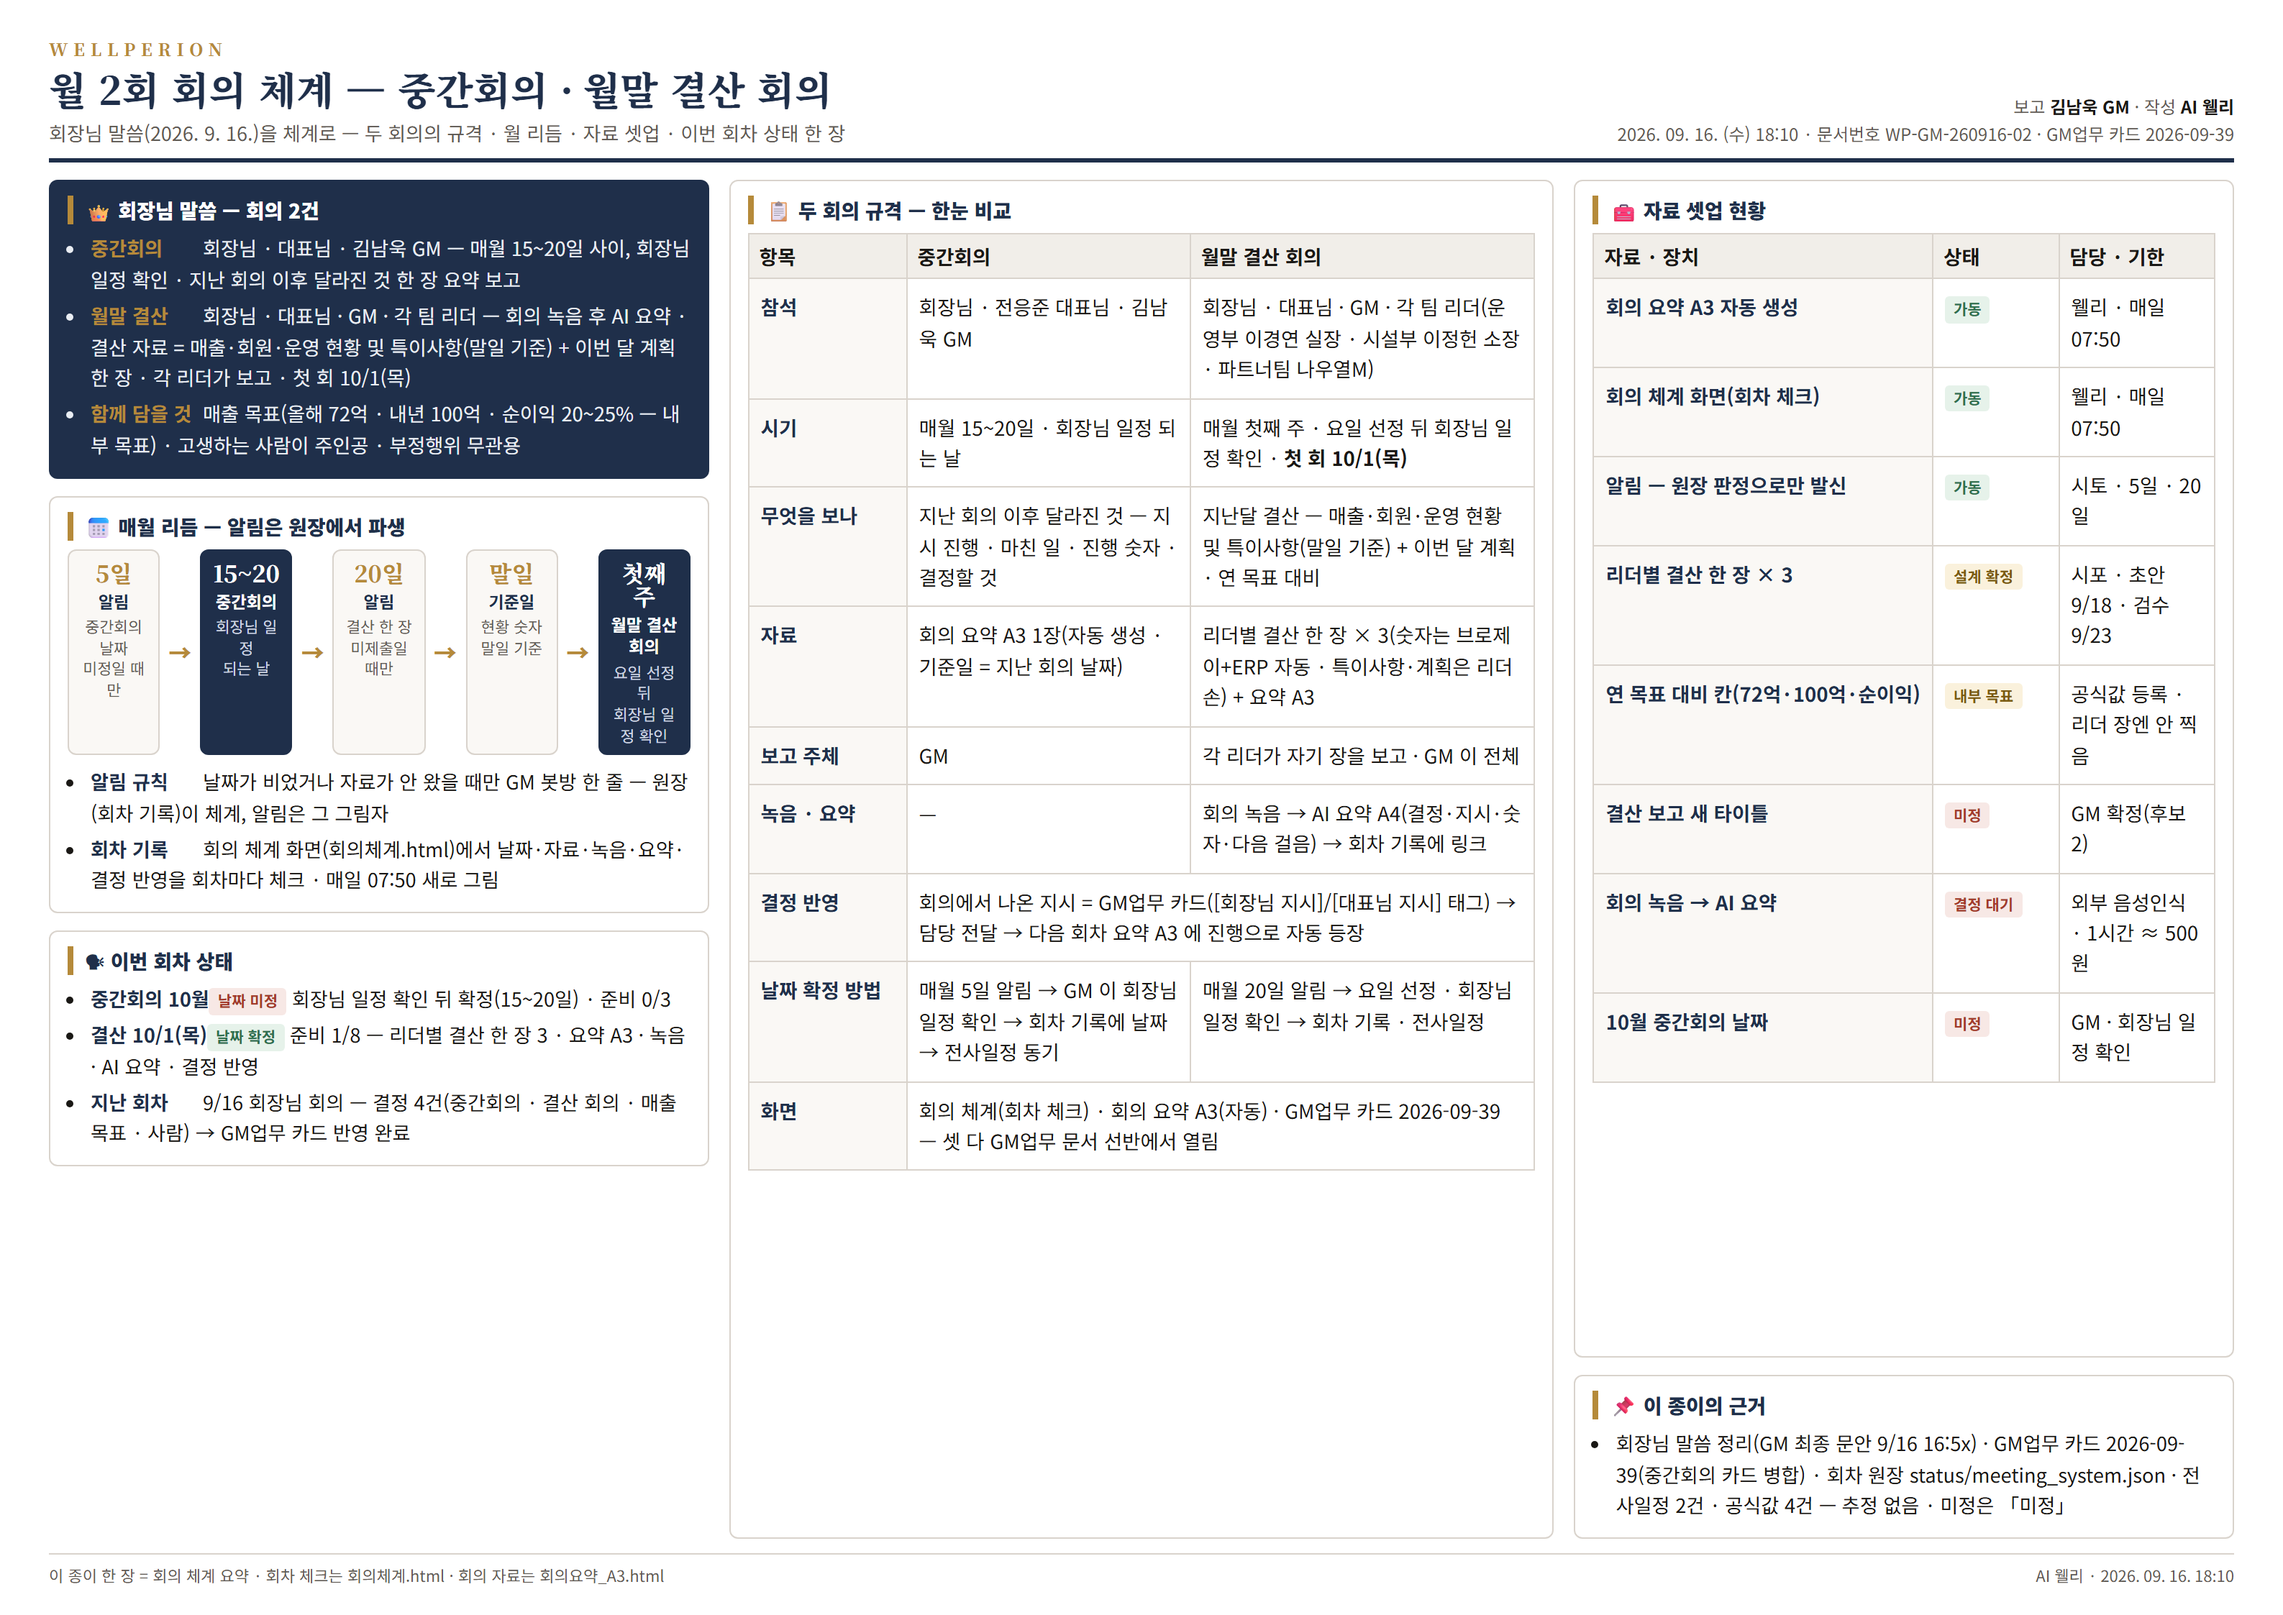
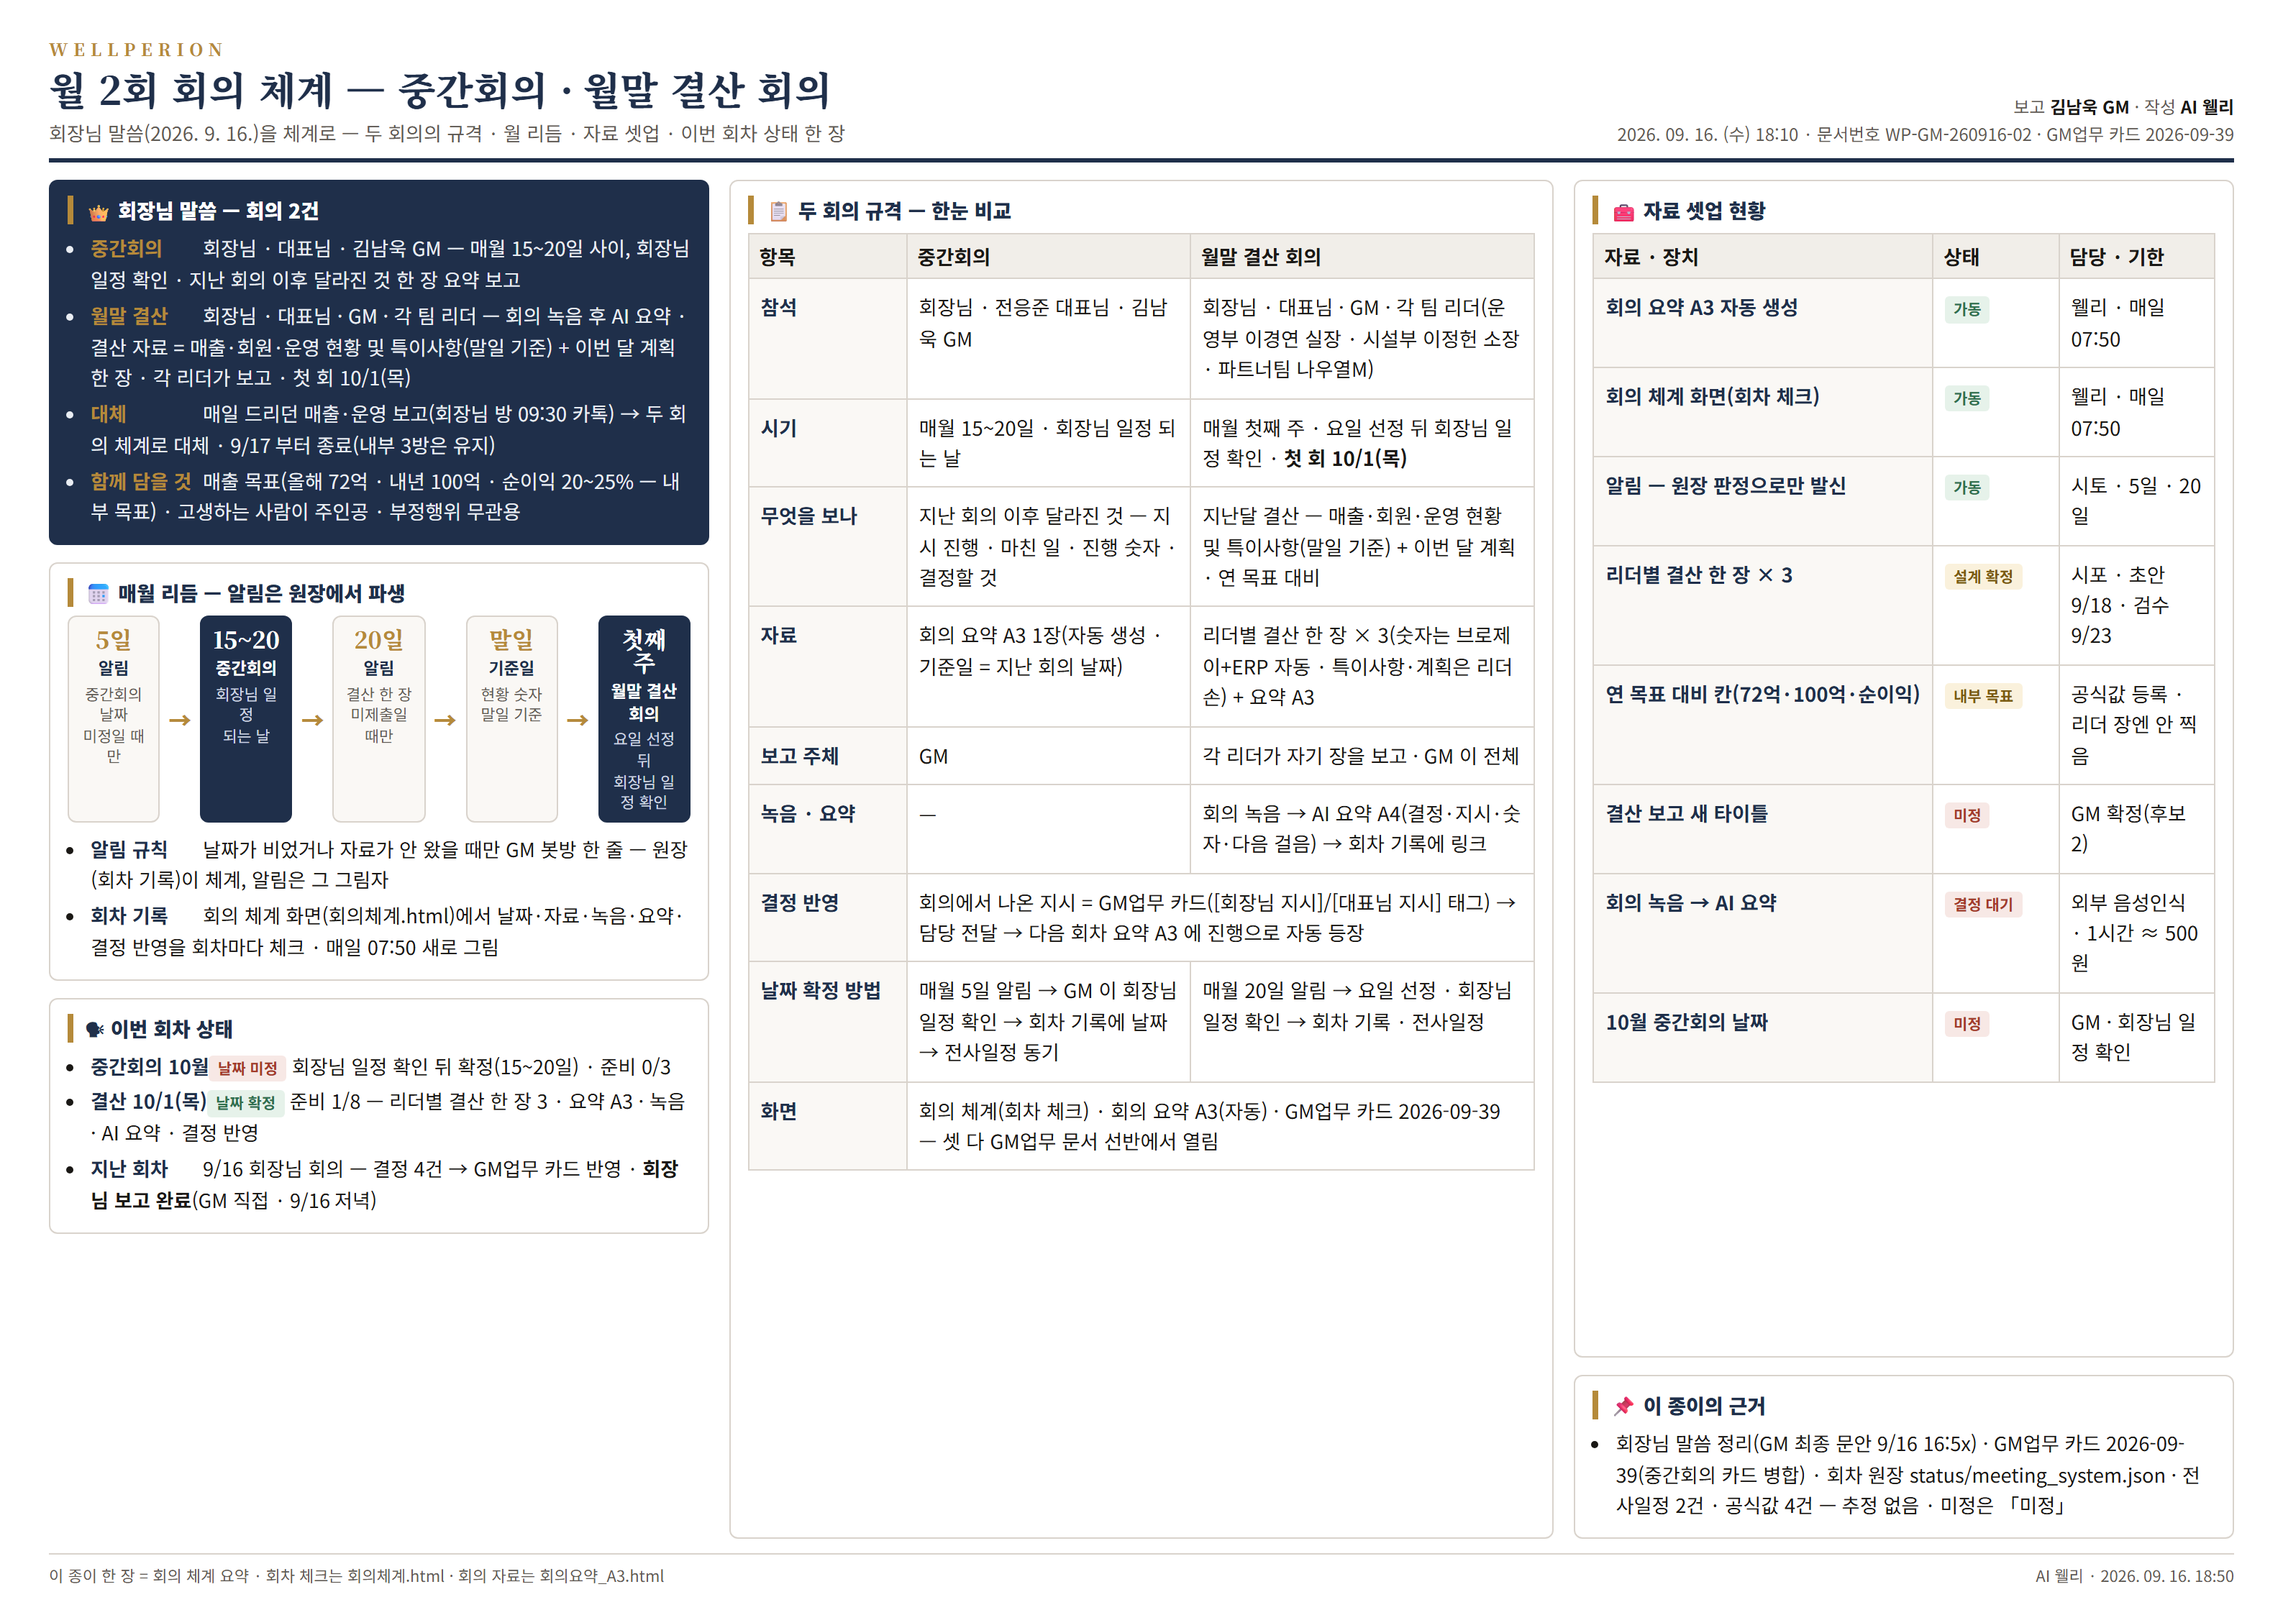
[웰리] feat(ceo): 회장님 방 매일 매출·운영 보고 종료(9/17~) — GM 회장님 보고 문안 「두 회의 체계로 대체」 · 카톡전송관리 방 목록에서 삭제 · 밀린 날 판정 방 무관 · GM업무 카드 2026-09-39·회차 원장·월 2회 회의 A3 갱신 (시토 배1115 미커밋 publish_to_erp_public · 3D 카드 편집분 함께 저장)

Changed region(s): [[0.0, 0.2493, 0.3119, 0.748]]

diff --git a/3. 웰페리온 가이드/coo/chairman/260916_월2회회의체계_요약_A3.html b/3. 웰페리온 가이드/coo/chairman/260916_월2회회의체계_요약_A3.html
@@ -56,6 +56,7 @@ td.n{font-weight:700;color:var(--navy);white-space:nowrap;background:#faf8f5}
         <ul>
           <li><span class="k">중간회의</span>회장님 · 대표님 · 김남욱 GM — 매월 15~20일 사이, 회장님 일정 확인 · 지난 회의 이후 달라진 것 한 장 요약 보고</li>
           <li><span class="k">월말 결산</span>회장님 · 대표님 · GM · 각 팀 리더 — 회의 녹음 후 AI 요약 · 결산 자료 = 매출·회원·운영 현황 및 특이사항(말일 기준) + 이번 달 계획 한 장 · 각 리더가 보고 · 첫 회 10/1(목)</li>
+          <li><span class="k">대체</span>매일 드리던 매출·운영 보고(회장님 방 09:30 카톡) → 두 회의 체계로 대체 · 9/17 부터 종료(내부 3방은 유지)</li>
           <li><span class="k">함께 담을 것</span>매출 목표(올해 72억 · 내년 100억 · 순이익 20~25% — 내부 목표) · 고생하는 사람이 주인공 · 부정행위 무관용</li>
         </ul>
       </div>
@@ -82,7 +83,7 @@ td.n{font-weight:700;color:var(--navy);white-space:nowrap;background:#faf8f5}
         <ul>
           <li><span class="k">중간회의 10월</span><span class="pill r">날짜 미정</span> 회장님 일정 확인 뒤 확정(15~20일) · 준비 0/3</li>
           <li><span class="k">결산 10/1(목)</span><span class="pill g">날짜 확정</span> 준비 1/8 — 리더별 결산 한 장 3 · 요약 A3 · 녹음 · AI 요약 · 결정 반영</li>
-          <li><span class="k">지난 회차</span>9/16 회장님 회의 — 결정 4건(중간회의 · 결산 회의 · 매출 목표 · 사람) → GM업무 카드 반영 완료</li>
+          <li><span class="k">지난 회차</span>9/16 회장님 회의 — 결정 4건 → GM업무 카드 반영 · <b>회장님 보고 완료</b>(GM 직접 · 9/16 저녁)</li>
         </ul>
       </div>
     </div>
@@ -131,6 +132,6 @@ td.n{font-weight:700;color:var(--navy);white-space:nowrap;background:#faf8f5}
     </div>
   </div>
 
-  <div class="ft"><span>이 종이 한 장 = 회의 체계 요약 · 회차 체크는 회의체계.html · 회의 자료는 회의요약_A3.html</span><span>AI 웰리 · 2026. 09. 16. 18:10</span></div>
+  <div class="ft"><span>이 종이 한 장 = 회의 체계 요약 · 회차 체크는 회의체계.html · 회의 자료는 회의요약_A3.html</span><span>AI 웰리 · 2026. 09. 16. 18:50</span></div>
 </div>
 </body></html>

diff --git a/scripts/kakao_auto_daily_report.py b/scripts/kakao_auto_daily_report.py
@@ -40,6 +40,7 @@ from __future__ import annotations
 
 import argparse
 import json
+import shutil
 import subprocess
 import sys
 import time
@@ -379,7 +380,10 @@ def missed_targets(target_date: datetime, limit: int = 10) -> "list[datetime]":
 
 
 def reported_in_send_log(day: datetime) -> bool:
-    """그날치 보고가 회장님 방으로 실제로 나갔는지 발신 로그로 본다(약속 L03 — 기록 말고 현실).
+    """그날치 보고가 실제로 나갔는지 발신 로그로 본다(약속 L03 — 기록 말고 현실).
+
+    2026-09-16: 회장님 방은 대상에서 빠졌다(GM 회장님 보고 — 매일 보고는 월 2회 회의로 대체).
+    그래서 방 이름을 묻지 않고 그 회차 사진 줄이 하나라도 있으면 나간 것으로 본다.
 
     2026-09-07 실사고: 9/5 회차가 09:30 에 실패한 뒤 13:01 에 손으로 다시 나갔는데 STATUS_FILE 의
     last_ok_target 은 안 바뀌어, 다음 날 인사말이 「9.5(토)·9.6(일) …」로 4개 방에 나갔다.
@@ -391,7 +395,7 @@ def reported_in_send_log(day: datetime) -> bool:
             continue
         try:
             for line in f.read_text(encoding="utf-8", errors="replace").splitlines():
-                if '"차의주 회장님"' in line and "image" in line and tag in line:
+                if "image" in line and tag in line:   # 어느 방이든(2026-09-16 회장님 방 제외 뒤)
                     return True
         except Exception:
             continue
@@ -533,6 +537,39 @@ def run_sender_message(rooms: "list[str] | None", message: str, dry_run: bool) -
         if rc != 0 or "DONE:" not in output:
             failures.append(f"{label}: {tail}")
     return (len(failures) == 0), failures
+
+
+def publish_to_erp_public(image_path: str) -> None:
+    """방금 회장님 방에 나간 보고 이미지를 ERP 공개 폴더에도 놓는다(배1115 ② · GM 2026-09-09).
+
+    왜: GM 지시 — "회장님 방 보고 사진도 ERP 안에서 보여야 한다". 회장님은 ERP 계정을
+    만들지 않으시므로 로그인 없이 열리는 자리(public/)에 사본을 둔다. 원본 아카이브
+    (1. AI자료_아카이브/10_매출보고/)는 그대로 두고 **사본만** 옮긴다.
+
+    안전: 카톡으로 이미 나간 바로 그 파일만 복사한다 — 새로 고르거나 만들지 않는다.
+    실패해도 발송 결과를 뒤집지 않는다(fail-open) — 이 함수는 발송이 성공한 뒤에만 불린다.
+    커밋은 safe_commit 관문을 거친다(맨손 git 금지 · 지정 경로만).
+    """
+    try:
+        src = Path(image_path)
+        if not src.is_file():
+            log(f"[public] 원본 이미지 없음 — 건너뜀: {image_path}")
+            return
+        dst_dir = ROOT / "3. 웰페리온 가이드" / "public" / "chairman"
+        dst_dir.mkdir(parents=True, exist_ok=True)
+        dst = dst_dir / src.name
+        shutil.copyfile(src, dst)
+        rel = str(dst.relative_to(ROOT)).replace("\\", "/")
+        subprocess.run(
+            [sys.executable, str(ROOT / "scripts" / "safe_commit.py"),
+             "-m", f"chore(cto): 회장님 보고 사진 ERP 공개 자리 반영 — {src.name} (배1115)",
+             "--", rel],
+            cwd=str(ROOT), capture_output=True, text=True,
+            encoding="utf-8", errors="replace", timeout=180,
+        )
+        log(f"[public] ERP 공개 자리 반영: /public/chairman/{src.name}")
+    except Exception as exc:  # 발송은 이미 끝났다 — 여기서 실패해도 결과를 바꾸지 않는다
+        log(f"[public] 반영 실패(발송에는 영향 없음): {type(exc).__name__}: {exc}")
 
 
 def main() -> int:
@@ -686,6 +723,7 @@ def main() -> int:
         #   진짜 못 나간 날이 다음 회차 인사말에서 빠진다(검증이 사실을 덮는다).
         if not args.dry_run and rooms is None:
             record_ok_target(target)
+            publish_to_erp_public(image_path)
         detail = "DRY-RUN 검증 완료" if args.dry_run else "3방 전송 완료" if rooms is None else f"{rooms} 전송 완료"
         msg = f"DONE: 카톡 {'검증(dry-run)' if args.dry_run else '전송'} 완료 — {detail}"
         log(msg)
